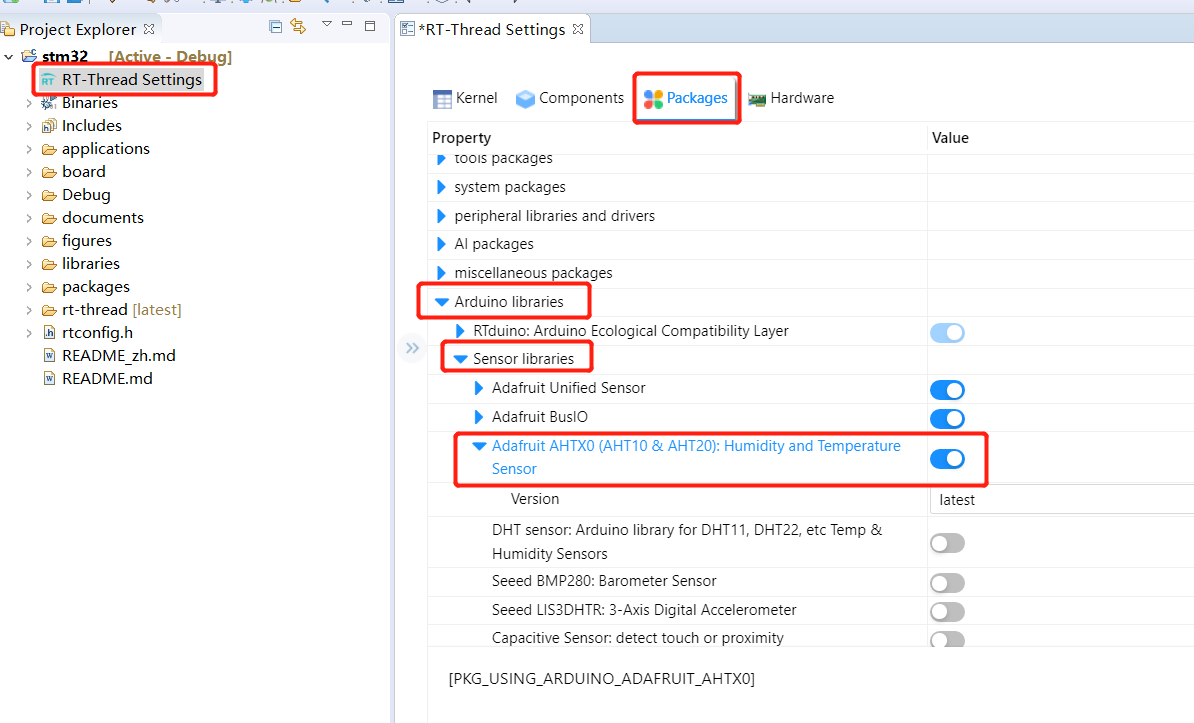
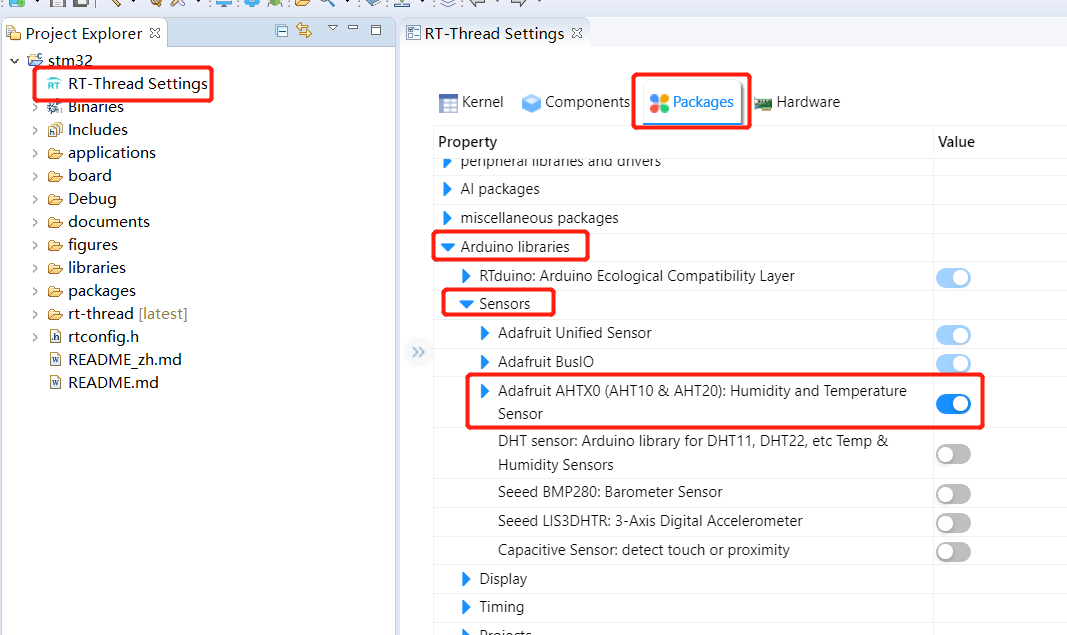
update readme

diff --git a/README.md b/README.md
@@ -145,7 +145,7 @@ The following example will show how to enable Arduino Adafruit AHTx0 sensor driv
 
 - Please follow the previous chapter to import a project into RT-Thread Studio and select `Support Arduino` in RT-Thread Settings.
 
-- Please to go `Software` column, and select `Arduino` category, and extend `Sensor` sub-category of Arduino library. Then, select and enable the Adafruit AHTx0 Arduino driver library. RT-Thread Studio will help you to enable other dependency libraries, such as Adafruit Unified Sensor library, Adafruit BusIO library and so on.
+- Please to go `Software` column, and select `Arduino libraries` category, and extend `Sensors` sub-category of Arduino library. Then, select and enable the Adafruit AHTx0 Arduino driver library. RT-Thread Studio will help you to enable other dependency libraries, such as Adafruit Unified Sensor library, Adafruit BusIO library and so on.
 
 ![3-1](docs/figures/3-1.png)
 
@@ -159,10 +159,12 @@ The following example will show how to enable Arduino Adafruit AHTx0 sensor driv
 
 You also can directly import an Arduino library manually, which has not been registered into RT-Thread software package center. This operation also is very easy.
 
-- You need to download the library from github or other repository and directly drag the zip file into `libraries\user` folder, and you don't need to decompress the zip file. 
-
-- Then, go to RT-Thread Studio, right click the project, select `Sync Sconscript to project` and click hammer to compile the project again. 
+- You need to download the library from github or other repository and directly drag the ZIP file into `libraries\user` folder, and you don't need to decompress the ZIP file.
 
 ![3-3](docs/figures/3-3.png)
+
+- Then, go to RT-Thread Studio, right click the project, select `Sync Sconscript to project` and click hammer to compile the project again.
+
+![3-4](docs/figures/3-4.png)
 
 - When the compiling finishes, you will find the new library is shown on the project, where is in the `libraries\user` folder of the project group.

diff --git a/README_zh.md b/README_zh.md
@@ -168,9 +168,11 @@ RT-Thread软件包中心为Arduino第三方库专门创建了一个分类，RTdu
 
 - 下载好之后，直接将zip压缩包（无需解压）拖进RTduino文件夹下的`libraries\user`这个目录下即可。
 
+![3-3](docs/figures/3-3.png)
+
 - 选择当前工程右键选择Sync Sconscript to project也就是让RT-Studio重新扫描并组织一遍工程目录，在扫描的过程中，RT-Studio会自动将zip压缩包解压，并按照Arduino IDE的文件添加逻辑（也就是忽略examples文件夹，并将其他文件夹的.c文件和.h路径添加到工程），将Arduino库添加到RT-Thread工程中来。然后再点一下小锤子按钮来重新编译一下工程。
 
-![3-3](docs/figures/3-3.png)
+![3-4](docs/figures/3-4.png)
 
 - 编译完成之后，你就会发现在RTduino的`libraries/user`文件夹下，就会出现你刚刚增加的Arduino库。
 
